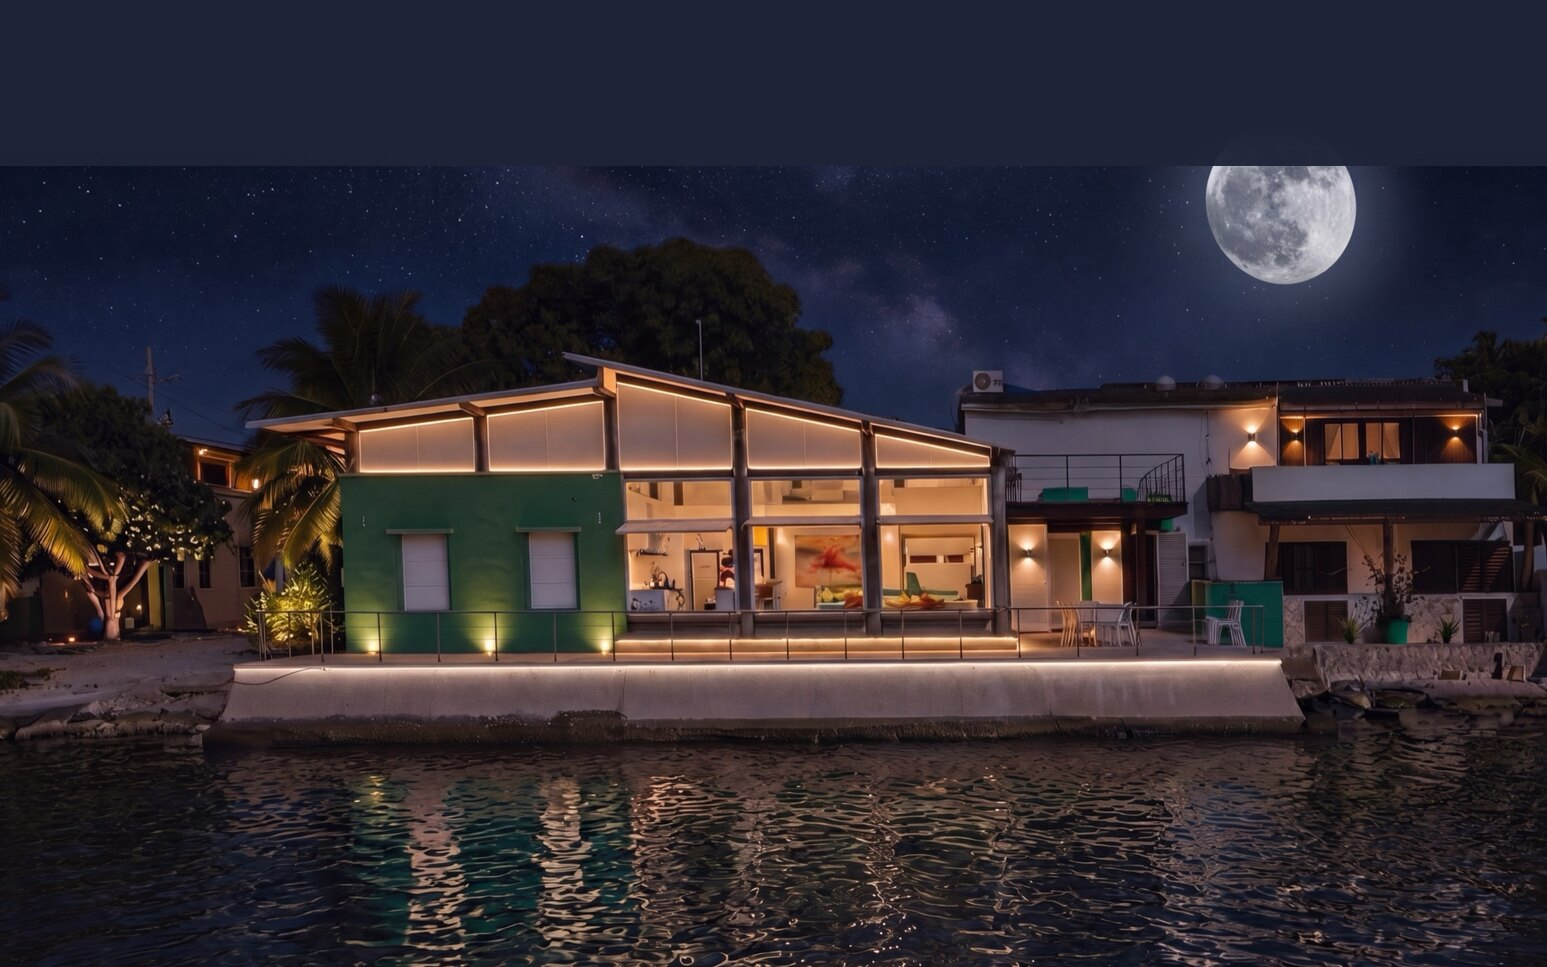
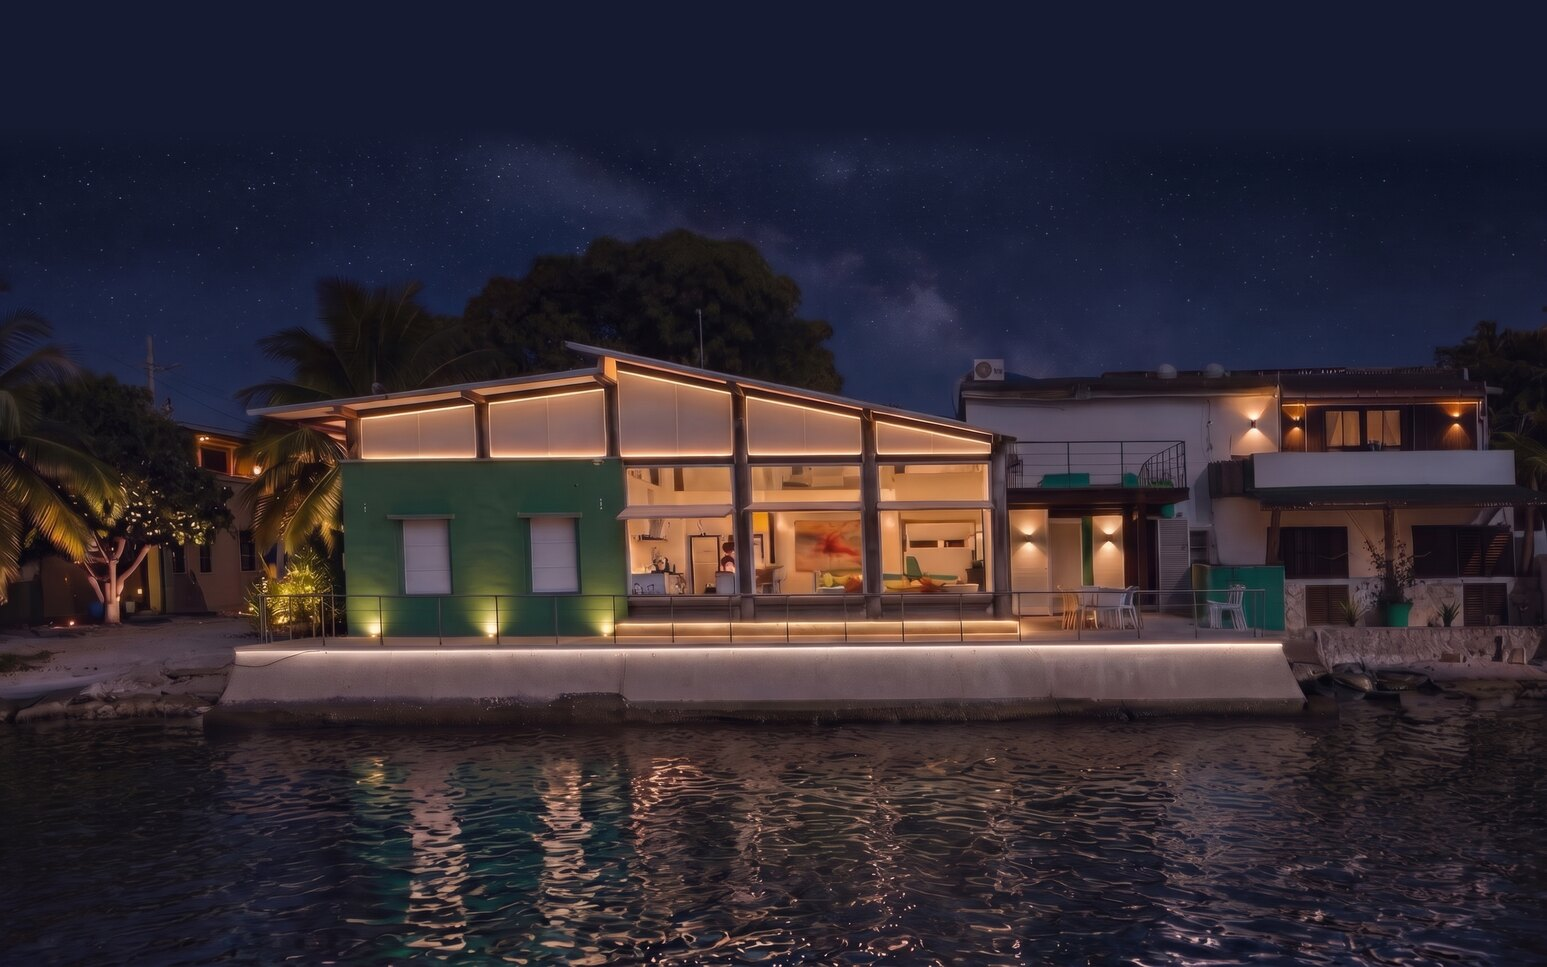
Mas suave: scroll suave (Lenis), transiciones tarde y noche mas largas y con curva; noche sin la luna

diff --git a/index.html b/index.html
@@ -427,6 +427,7 @@ setTimeout(function(){
 
 <script src="https://cdnjs.cloudflare.com/ajax/libs/gsap/3.12.5/gsap.min.js"></script>
 <script src="https://cdnjs.cloudflare.com/ajax/libs/gsap/3.12.5/ScrollTrigger.min.js"></script>
+<script src="https://unpkg.com/lenis@1.1.13/dist/lenis.min.js"></script>
 <script>
 (function(){
   var reduce = matchMedia('(prefers-reduced-motion: reduce)').matches;
@@ -443,6 +444,21 @@ setTimeout(function(){
     return;
   }
   gsap.registerPlugin(ScrollTrigger);
+
+  /* scroll suave (con la rueda y el trackpad; en el telefono queda el nativo) */
+  if(window.Lenis){
+    var lenis = new Lenis({duration: 1.35, easing: function(t){ return Math.min(1, 1.001 - Math.pow(2, -10 * t)); }});
+    lenis.on('scroll', ScrollTrigger.update);
+    gsap.ticker.add(function(t){ lenis.raf(t * 1000); });
+    gsap.ticker.lagSmoothing(0);
+    document.querySelectorAll('a[href^="#"]').forEach(function(a){
+      a.addEventListener('click', function(e){
+        var id = a.getAttribute('href'), el = id.length > 1 && document.querySelector(id);
+        if(!el && id !== '#top') return;
+        e.preventDefault(); lenis.scrollTo(id === '#top' ? 0 : el);
+      });
+    });
+  }
 
   /* geometria del hueco medida del canal alfa de cada imagen (fraccion de la imagen) */
   /* ventana recortada (965x1649): vano 831x1466 en +69+107 */
@@ -481,7 +497,7 @@ setTimeout(function(){
   medir(); pintar(0);
 
   ScrollTrigger.create({
-    trigger: '.hero', start: 'top top', end: 'bottom bottom', scrub: .6,
+    trigger: '.hero', start: 'top top', end: 'bottom bottom', scrub: 1.2,
     onUpdate: function(self){
       var p = self.progress;
       var a = gsap.utils.clamp(0, 1, (p - .04) / .32);
@@ -494,10 +510,11 @@ setTimeout(function(){
       gsap.set(marFoto, {xPercent: innerWidth <= 860 ? -41 : -50, x: 0, transformOrigin: '50% 0%', scale: 1.18 - .18 * s,
         y: -q * Math.max(0, marFoto.offsetHeight - innerHeight)});
       /* ya frente a la casa: se acerca un poco y cae la tarde, luego la noche */
-      var z = gsap.utils.clamp(0, 1, (p - .60) / .12);
+      var ss = function(a, b){ var t = gsap.utils.clamp(0, 1, (p - a) / (b - a)); return t * t * (3 - 2 * t); };
+      var z = gsap.utils.clamp(0, 1, (p - .58) / .16);
       gsap.set(marZoom, {scale: 1 + (innerWidth <= 860 ? .26 : .13) * z * z * (3 - 2 * z)});
-      gsap.set(capaTarde, {opacity: gsap.utils.clamp(0, 1, (p - .72) / .1)});
-      gsap.set(capaNoche, {opacity: gsap.utils.clamp(0, 1, (p - .85) / .1)});
+      gsap.set(capaTarde, {opacity: ss(.68, .84)});
+      gsap.set(capaNoche, {opacity: ss(.80, .97)});
       var sale = gsap.utils.clamp(0, 1, (p - .03) / .26);
       gsap.set(tipo, {opacity: 1 - sale, filter: 'blur(' + (sale * 18) + 'px)'});
       gsap.set(meta, {opacity: 1 - sale, y: sale * 26});
